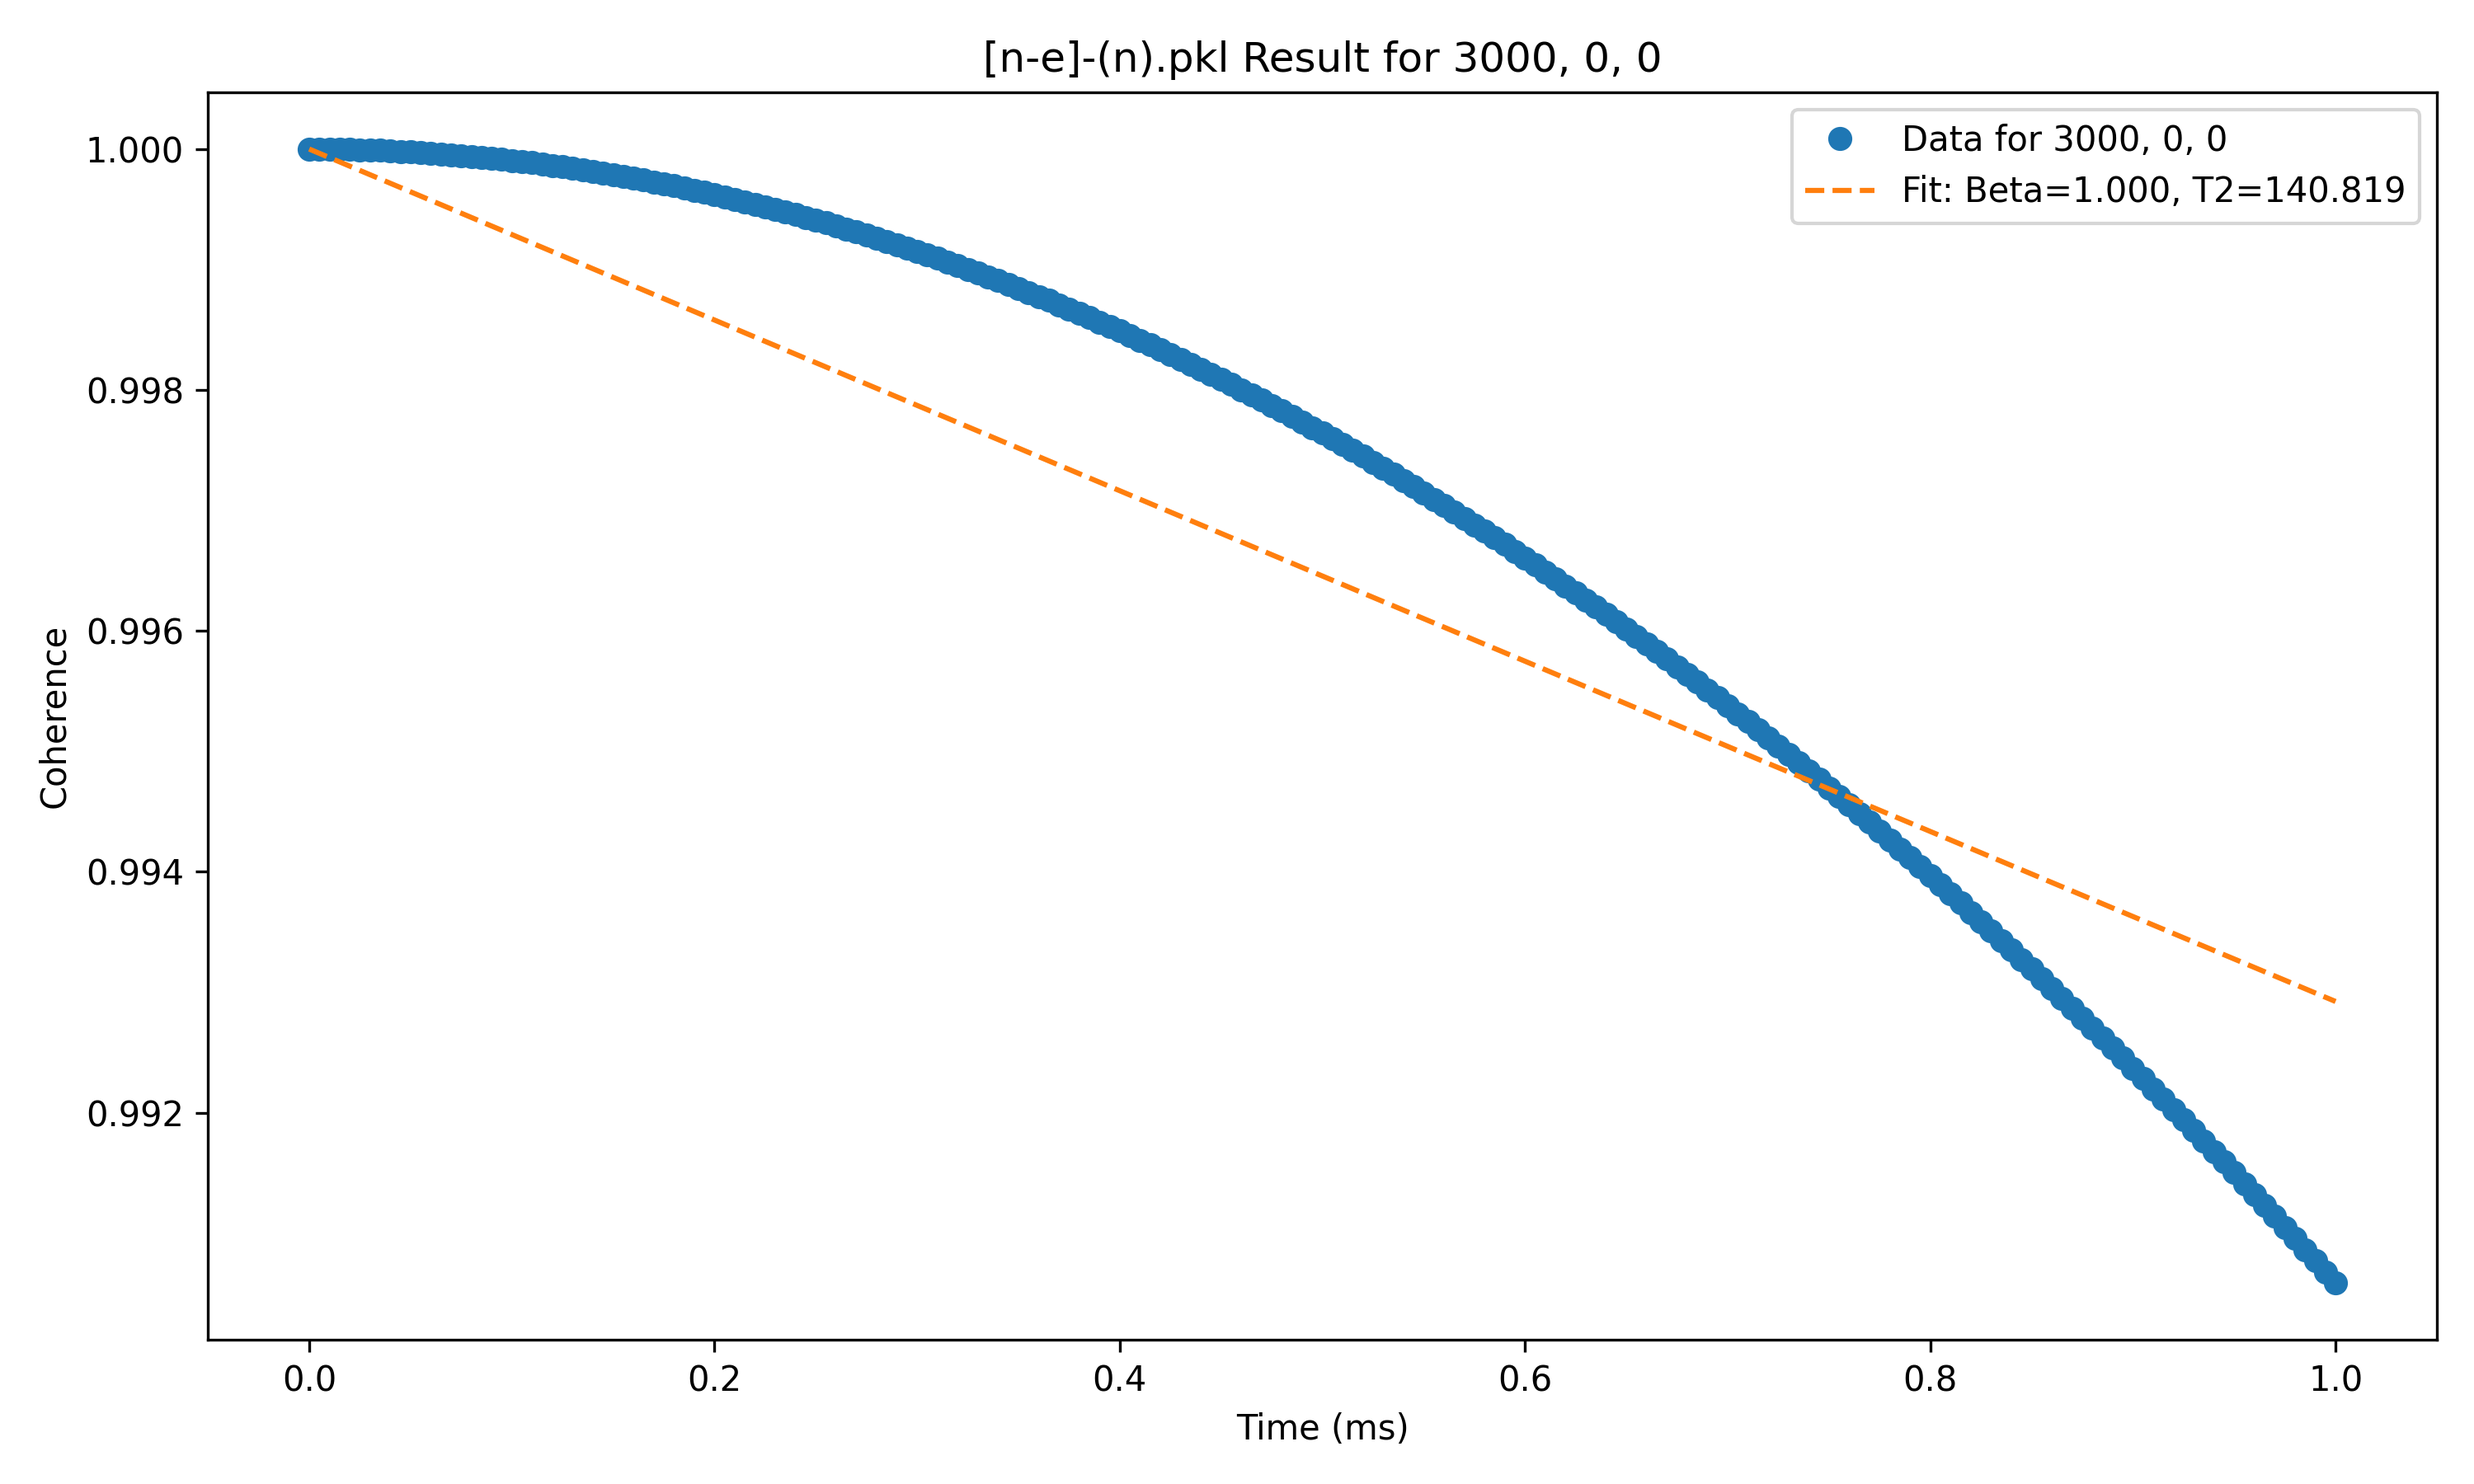
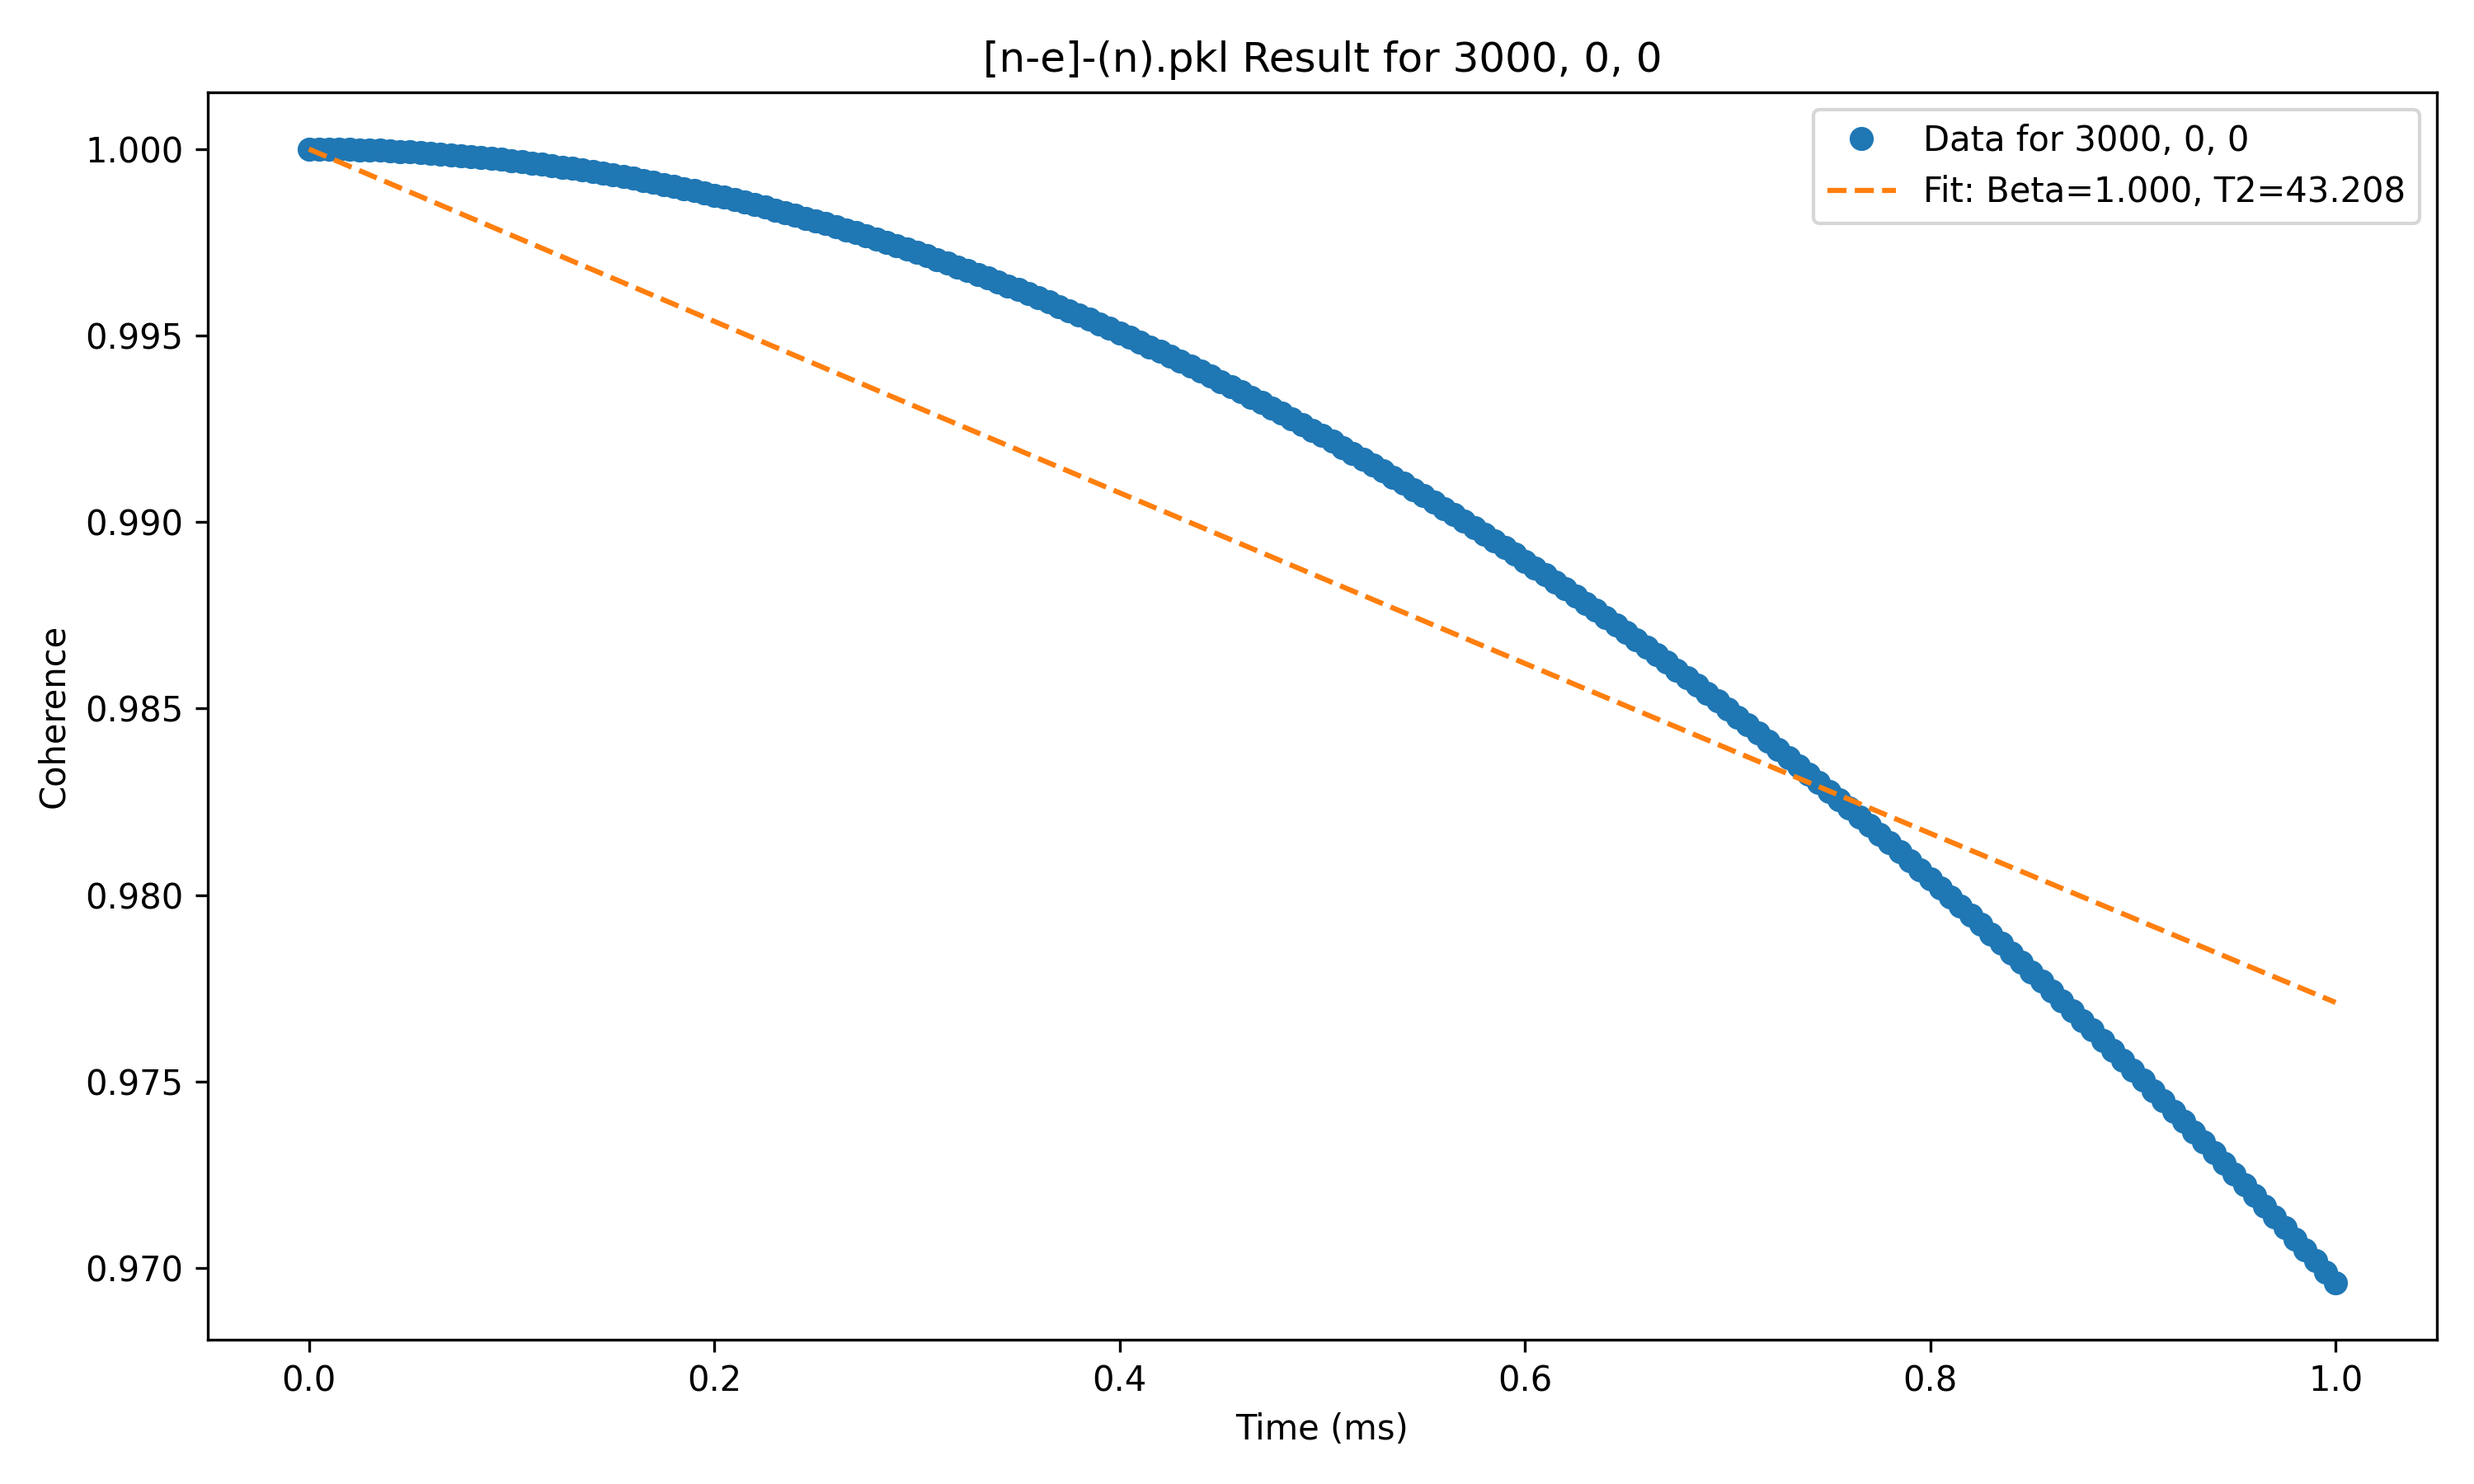
AB1: Nitrogen T2 is normal

diff --git a/VOTPP folder/VOTPP_[n-e]-(n).py b/VOTPP folder/VOTPP_[n-e]-(n).py
@@ -162,15 +162,15 @@ default_calc_parameters = {
 }
 
 default_bath_parameters = {
-    'concentration': 1313, #!
+    'concentration': 1414, #!
     'cell_size': 500, #!
     'seed': 8000
 }
 
 default_simulator_parameters = { ########## These should be greater when simulating with HPC
     'order': 2, #!
-    'r_bath': 40, #16,
-    'r_dipole': 30, #6,
+    'r_bath': 15, #16,
+    'r_dipole': 5, #6,
     'magnetic_field': [3000, 0, 0], # Magnetic field in Gauss
 }
 
